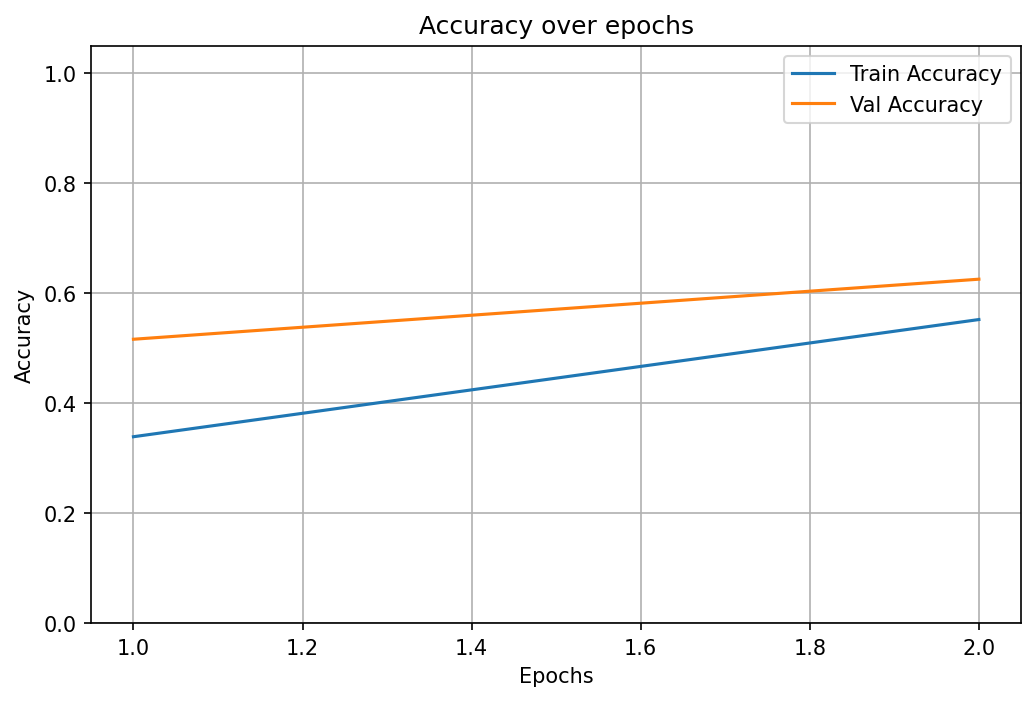
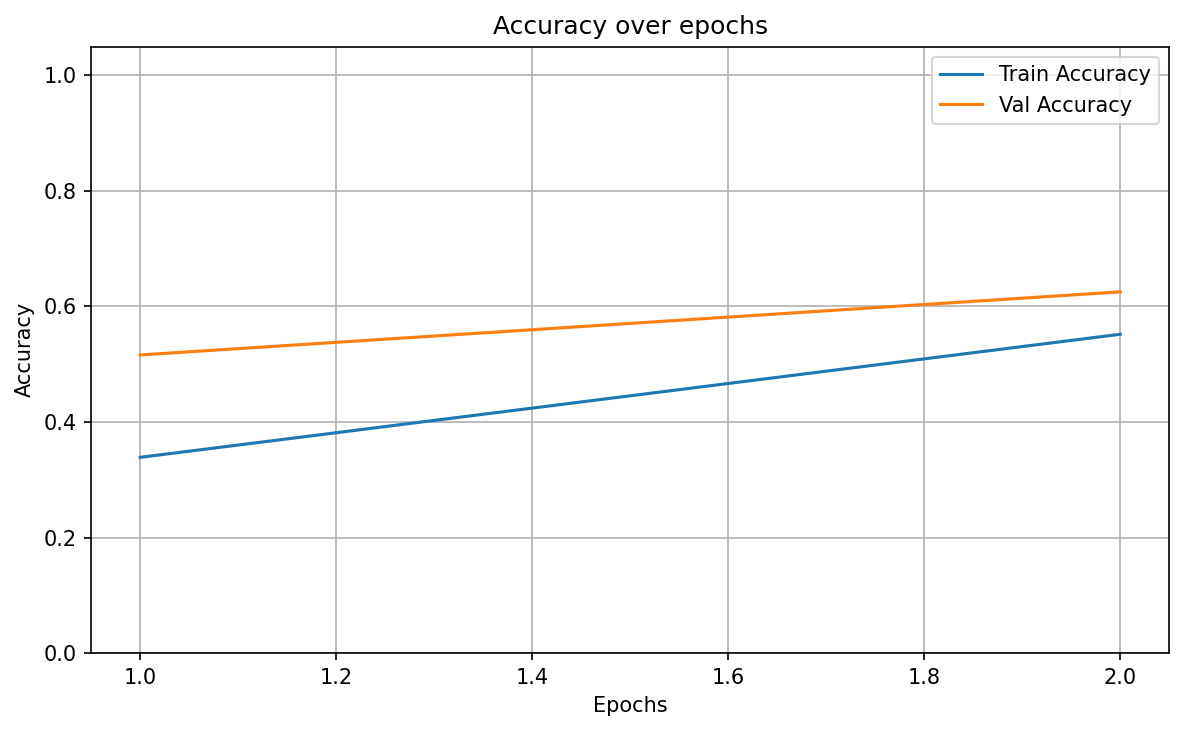
[ADD] More metrics visualisation added (per-class and macro averaged advanced metrics and training curves)

Changed region(s): [[0.0, 0.0, 0.9884, 0.9586], [0.556, 0.5093, 0.6795, 0.5392], [0.4942, 0.9586, 0.5869, 0.9886]]

diff --git a/utils/plotting.py b/utils/plotting.py
@@ -1,6 +1,8 @@
 """
 Utilities for plotting metrics computed during training or evaluation.
 """
+from pathlib import Path
+
 import numpy as np
 import matplotlib.pyplot as plt
 from matplotlib.figure import Figure
@@ -11,10 +13,10 @@ def plot_loss(
         train_loss: list[float],
         val_loss: list[float] | None = None,
         figsize: tuple[int] = (8, 5),
-        save_path: str | None = None,
+        save_path: str | Path | None = None,
     ) -> None:
     """
-    Plot training and validation loss over epochs.
+    Plot training (and validation) loss over epochs.
 
     Parameters
     ----------
@@ -25,7 +27,7 @@ def plot_loss(
         training loss is plotted.
     figsize : tuple of int, default=(8,5)
         Width and height of the figure in inches.
-    save_path : str or None, optional
+    save_path : str or Path or None, optional
         File path where the figure will be saved. If ``None``, the figure
         is displayed interactively and not saved.
     """    
@@ -47,12 +49,12 @@ def plot_loss(
 
 def plot_accuracy(
         train_acc: list[float],
-        val_acc: list[float],
+        val_acc: list[float] | None = None,
         figsize: tuple[int] = (8, 5),
-        save_path: str | None = None,
+        save_path: str | Path | None = None,
     ) -> None:
     """
-    Plot training and validation accuracy over epochs.
+    Plot training (and validation) accuracy over epochs.
  
     Parameters
     ----------
@@ -63,7 +65,7 @@ def plot_accuracy(
         training accuracy is plotted.
     figsize : tuple of int, default=(8,5)
         Width and height of the figure in inches.
-    save_path : str or None, optional
+    save_path : str or Path or None, optional
         File path where the figure will be saved. If ``None``, the figure
         is displayed interactively and not saved.
     """
@@ -84,10 +86,162 @@ def plot_accuracy(
     _show_or_save(fig, save_path=save_path)
 
 
+def plot_training_curves(
+        train_loss: list[float],
+        train_acc: list[float],
+        val_loss: list[float] | None = None,
+        val_acc: list[float] | None = None,
+        figsize: tuple[int] = (14,5),
+        save_path: str | Path | None = None,
+    ) -> None:
+    """
+    Plot training (and validation) loss and accuracy over epochs
+    side by side in one figure.
+
+    Parameters
+    ----------
+    train_loss : list of float
+        Training loss values, one per epoch.
+    train_acc : list of float
+        Training accuracy values, one per epoch.
+    val_loss : list of float or None, optional
+        Validation loss values, one per epoch. If ``None``, only the
+        training loss is plotted.
+    val_acc : list of float or None, optional
+        Validation accuracy values, one per epoch. If ``None``, only the
+        training accuracy is plotted.
+    figsize : tuple of int, default=(14,5)
+        Width and height of the figure in inches.
+    save_path : str or Path or None, optional
+        File path where the figure will be saved. If ``None``, the figure
+        is displayed interactively and not saved.
+    """
+    epochs = range(1, len(train_loss) + 1)
+
+    fig, (ax_loss, ax_acc) = plt.subplots(1, 2, figsize=figsize)
+
+    ax_loss.plot(epochs, train_loss, label="Train Loss")
+    if val_loss is not None:
+        ax_loss.plot(epochs, val_loss, label="Val Loss")
+    ax_loss.set_xlabel("Epochs")
+    ax_loss.set_ylabel("Loss")
+    ax_loss.set_title("Loss over epochs")
+    ax_loss.legend()
+    ax_loss.grid(True)
+
+    ax_acc.plot(epochs, train_acc, label="Train Accuracy")
+    if val_acc is not None:
+        ax_acc.plot(epochs, val_acc, label="Val Accuracy")
+    ax_acc.set_xlabel("Epochs")
+    ax_acc.set_ylabel("Accuracy")
+    ax_acc.set_ylim(0, 1.05)
+    ax_acc.set_title("Accuracy over epochs")
+    ax_acc.legend()
+    ax_acc.grid(True)
+
+    plt.tight_layout()
+
+    _show_or_save(fig, save_path=save_path)
+
+
+def plot_macro_advanced_metrics(
+        precision_score: list[float],
+        recall_score: list[float],
+        f1_score: list[float],
+        figsize: tuple[int] = (8, 5),
+        save_path: str | Path | None = None,
+    ) -> None:
+    """
+    Plot macro-averaged advanced metrics (precision, recall and F1) over epochs.
+
+    Parameters
+    ----------
+    precision_score : list of float
+        Macro-averaged precision values, one per epoch.
+    recall_score : list of float
+        Macro-averaged score values, one per epoch.
+    f1_score : list of float
+        Macro-averaged F1 values, one per epoch.
+    figsize : tuple of int, default=(8,5)
+        Width and height of the figure in inches.
+    save_path : str or Path or None, optional
+        File path where the figure will be saved. If ``None``, the figure
+        is displayed interactively and not saved.
+    """
+    epochs = range(1, len(precision_score) + 1)
+
+    fig, ax = plt.subplots(figsize=figsize)
+    ax.plot(epochs, precision_score, label="Precision")
+    ax.plot(epochs, recall_score, label="Recall")
+    ax.plot(epochs, f1_score, label="F1")
+    ax.set_xlabel("Epochs")
+    ax.set_ylabel("Score")
+    ax.set_ylim(0, 1.05)
+    ax.set_title("Macro-averaged advanced metrics over epochs")
+    ax.legend()
+    ax.grid(True)
+    plt.tight_layout()
+
+    _show_or_save(fig, save_path=save_path)
+
+
+def plot_class_metrics(
+        precision_score: list[float],
+        recall_score: list[float],
+        f1_score: list[float],
+        class_names: list[str] | None = None,
+        width : float = 0.25,
+        save_path: str | Path | None = None,
+    ) -> None:
+    """
+    Plot grouped bar chart of precision, recall and F1 score for each class.
+
+    Function expects only one epoch. Use the final one.
+
+    Parameters
+    ----------
+    precision_score : list of float
+        Precision value for each class.
+    recall_score : list of float
+        Recall value for each class.
+    f1_score : list of float
+        F1 value for each class.
+    class_names : list of str or None, optional
+        Labels for each class, used as labels. If ``None``, integer indices
+        are used.
+    width : float, default=0.25
+        Width of each bar. Grouped bar width is ``3 * width``.
+    save_path : str or Path or None, optional
+        File path where the figure will be saved. If ``None``, the figure
+        is displayed interactively and not saved.
+    """
+    n_classes = len(precision_score)
+    x = range(n_classes)
+    labels = class_names or [str(i) for i in x]
+
+    fig, ax = plt.subplots(figsize=(max(8, n_classes * 1.2), 5))
+    ax.bar(x - width, precision_score, width=width, label="Precision", color="steelblue")
+    ax.bar(x, recall_score, width=width, label="Recall", color="darkorange")
+    ax.bar(x + width, f1_score, width=width, label="F1", color="seagreen")
+
+    ax.set_xticks(x)
+    ax.set_xticklabels(labels=labels, rotation=45, ha="right")
+    ax.set_ylabel("Score")
+    ax.set_ylim(0, 1.05)
+    ax.set_title("Per-Class Metrics")
+    ax.legend()
+    ax.bar_label(ax.containers[2], fmt="%.2f", padding=2, fontsize=8)  # F1 labels
+    ax.grid(axis="y", linestyle="--", alpha=0.5)
+    plt.tight_layout()
+
+    _show_or_save(fig, save_path=save_path)
+
+
 def plot_confusion_matrix(
         confusion_matrix: np.ndarray,
         class_names: list[str] | None = None,
-        save_path: str | None = None,
+        cmap: str = "flare",
+        save_path: str | Path | None = None,
     ) -> None:
     """
     Plot a confusion matrix as an annotated heatmap.
@@ -104,15 +258,17 @@ def plot_confusion_matrix(
     class_names : list of str or None, optional
         Labels for each class, used as tick labels on both axes. If
         ``None``, integer indices are used.
-    save_path : str or None, optional
+    cmap : str, default="flare"
+        Color of the heatmap.
+    save_path : str or Path or None, optional
         File path where the figure will be saved. If ``None``, the figure
         is displayed interactively and not saved.
     """
-    figsize = (max(6, len(confusion_matrix)), max(5, len(confusion_matrix) - 1))
+    figsize = (max(6, len(confusion_matrix)), max(6, len(confusion_matrix)))
     fig, ax = plt.subplots(figsize=figsize)
     sns.heatmap(
         confusion_matrix,
-        cmap="Blues",
+        cmap=cmap,
         annot=True,
         fmt="d",
         xticklabels=class_names or "auto",
@@ -126,7 +282,11 @@ def plot_confusion_matrix(
     _show_or_save(fig=fig, save_path=save_path)
 
 
-def _show_or_save(fig: Figure, save_path: str | None = None, dpi: int = 150) -> None:
+def _show_or_save(
+        fig: Figure,
+        save_path: str | Path | None = None,
+        dpi: int = 150,
+    ) -> None:
     """
     Display a figure interactively or save it to disk.
  
@@ -134,7 +294,7 @@ def _show_or_save(fig: Figure, save_path: str | None = None, dpi: int = 150) -> 
     ----------
     fig : matplotlib.figure.Figure
         Figure object to display or save.
-    save_path : str or None, optional
+    save_path : str or Path or None, optional
         File path where the figure will be saved. If ``None``, the figure
         is shown interactively via ``plt.show()``.
     dpi : int, default=150

diff --git a/main.py b/main.py
@@ -9,7 +9,7 @@ import logging
 from training.train import run_training
 from utils.seed import set_seed
 from utils.logger import set_logger
-from utils.plotting import plot_accuracy, plot_loss
+from utils.plotting import plot_accuracy, plot_loss, plot_training_curves, plot_macro_advanced_metrics, plot_confusion_matrix
 
 logger = logging.getLogger(__name__)
 
@@ -66,7 +66,7 @@ def main():
     else:
         logger.info("Seed not set")
 
-    save_dir = args.save_dir or config.get("save_dir", None)
+    save_dir = config.get("save_dir", None)
 
     model, history = run_training(config)
 
@@ -74,17 +74,29 @@ def main():
     train_acc = history["train_accuracy"]
     val_loss = history["val_loss"]
     val_acc = history["val_accuracy"]
+    precision = history["precision"]
+    recall = history["recall"]
+    f1_score = history["f1_score"]
+    confusion_matrix = history["confusion_matrix"][-1]
 
     if save_dir is not None:
         loss_save_path = save_dir + "/visualisation/loss"
         acc_save_path = save_dir + "/visualisation/acc"
+        curves_save_path = save_dir + "/visualisation/training_curves"
+        macro_metrics_save_path = save_dir + "/visualisation/macro_metrics"
+        confusion_matrix_save_path = save_dir + "/visualisation/confusion_matrix"
     else:
         loss_save_path = None
         acc_save_path = None
-        
+        curves_save_path = None
+        macro_metrics_save_path = None
+        confusion_matrix_save_path = None
+
     plot_loss(train_loss=train_loss, val_loss=val_loss, save_path=loss_save_path)
     plot_accuracy(train_acc=train_acc, val_acc=val_acc, save_path=acc_save_path)
-
+    plot_training_curves(train_loss=train_loss, train_acc=train_acc, val_loss=val_loss, val_acc=val_acc, save_path=curves_save_path)
+    plot_macro_advanced_metrics(precision_score=precision, recall_score=recall, f1_score=f1_score, save_path=macro_metrics_save_path)
+    plot_confusion_matrix(confusion_matrix=confusion_matrix, save_path=confusion_matrix_save_path)
 
 if __name__ == "__main__":
     main()

diff --git a/utils/__init__.py b/utils/__init__.py
@@ -2,6 +2,17 @@ from utils.data import get_dataloader
 from utils.logger import set_logger
 from utils.metrics import compute_metrics
 from utils.optim import get_optim
-from utils.plotting import plot_accuracy, plot_loss
+from utils.plotting import plot_accuracy, plot_loss, plot_class_metrics, plot_confusion_matrix, plot_macro_advanced_metrics, plot_training_curves
 
-__all__ = ["get_dataloader", "set_logger", "compute_metrics", "get_optim", "plot_accuracy", "plot_loss"]
+__all__ = [
+    "get_dataloader", 
+    "set_logger",
+    "compute_metrics",
+    "get_optim",
+    "plot_accuracy",
+    "plot_loss",
+    "plot_class_metrics",
+    "plot_confusion_matrix",
+    "plot_macro_advanced_metrics",
+    "plot_training_curves",
+    ]
